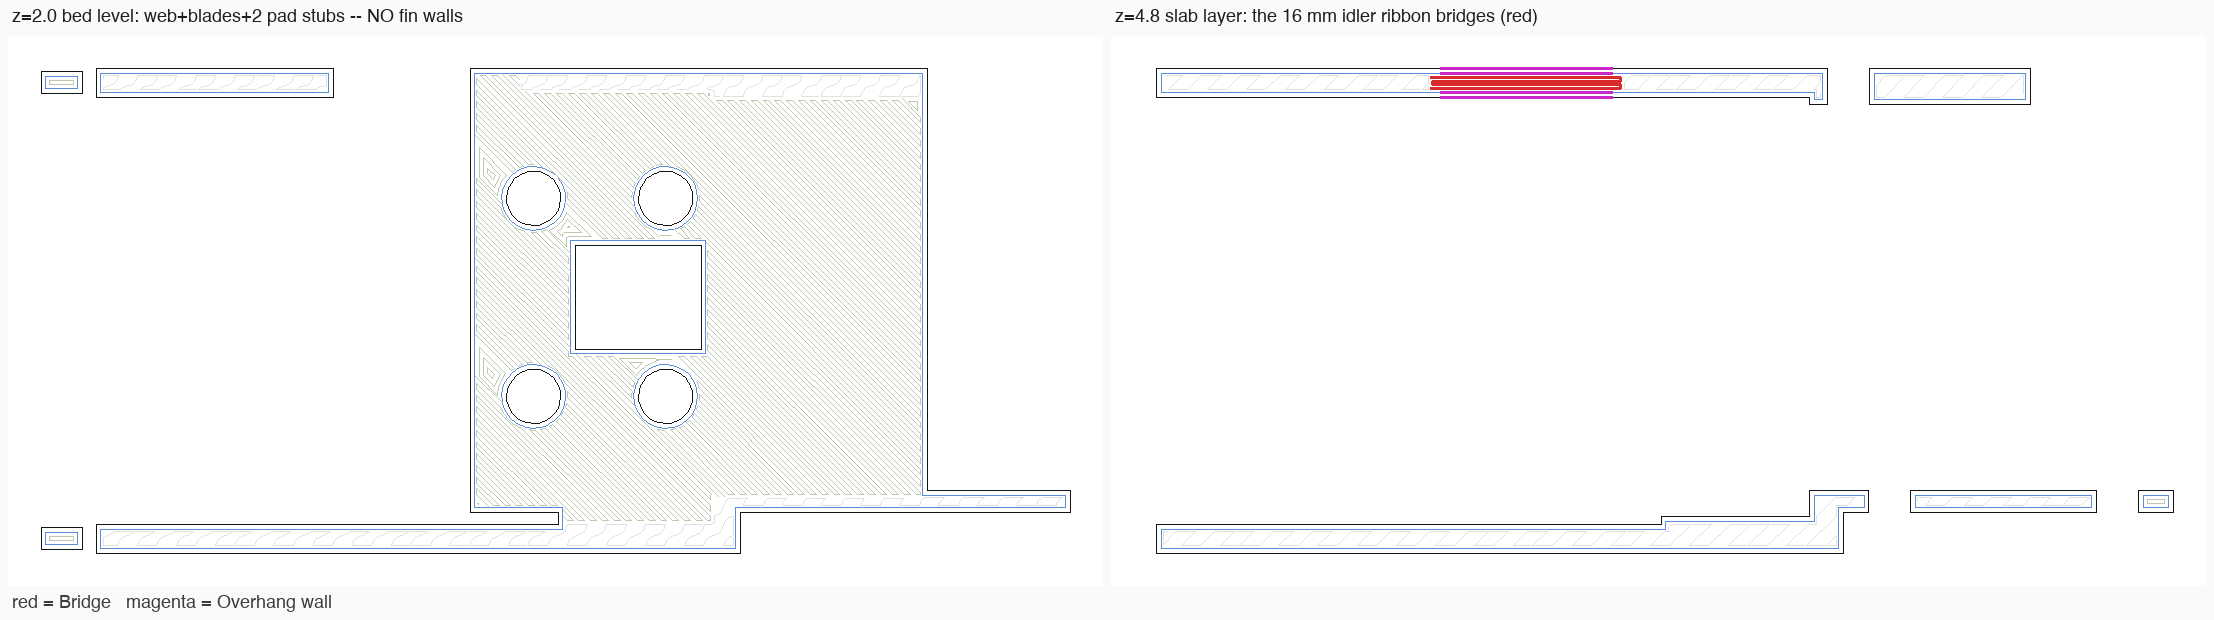
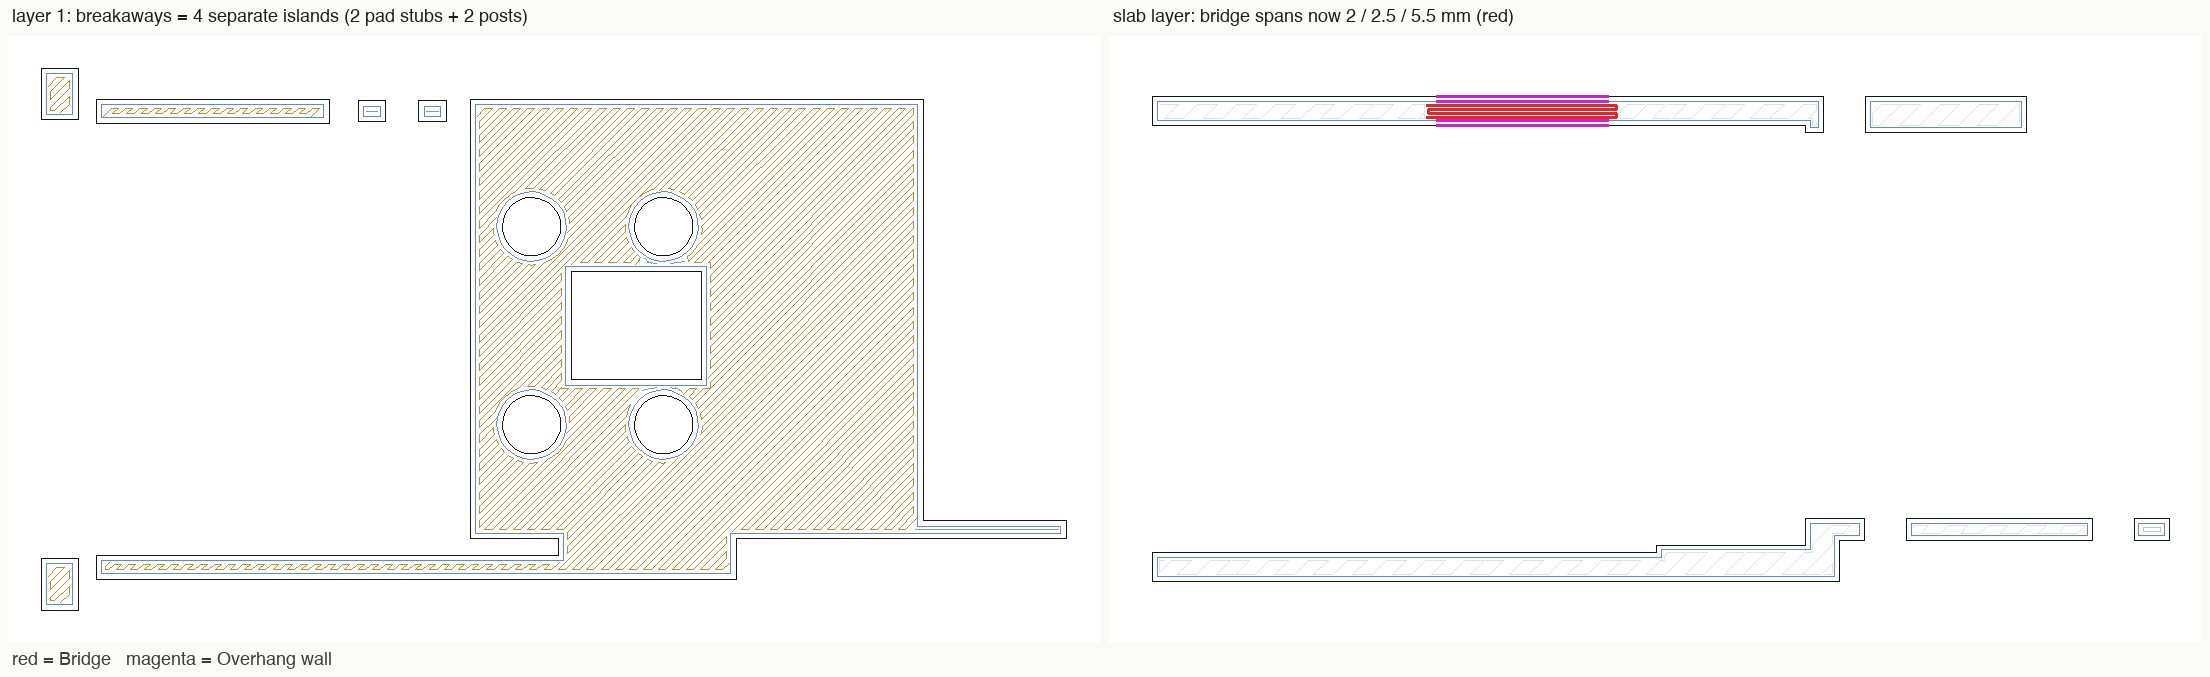
leg_link print: two island posts under the idler ribbon
The bare 16 mm ribbon bridge was rejected in print review. Two 2.4x3
posts (0.35 under the slab, >=1 mm clear of web and fills at the bed)
break it into 2 / 2.5 / 5.5 mm hops. Slice-verified: layer 1 has
exactly 4 breakaway islands (2 pad stubs + 2 posts), none connected
to the part or each other -- the island rule this review converged
on. leg_link.stl (sim/assembly geometry) unchanged.

diff --git a/cad/parts.py b/cad/parts.py
@@ -300,6 +300,15 @@ def leg_link(print_fins=False):
             stub += box(web_x0, web_x0 + 1.5, min(yc - 1.2, sgn * (abs(yc) + 4.3)),
                         max(yc + 1.2, sgn * (abs(yc) + 4.3)), -97.0, -92.8)
             p += stub
+        # island posts under the idler ribbon (print review 2026-07-16: the
+        # bare 16 mm bridge was rejected): two 2.4 x 3 columns, 0.35 under
+        # the slab, >=1 mm clear of the web (-58) and the solid fills (-70,
+        # -54) at bed level -- separate first-layer islands like the pad
+        # stubs, attached to nothing; the remaining bridge spans are
+        # 2 / 2.5 / 5.5 mm.
+        yc = iy0 + D.PLATE / 2
+        for z0, z1 in ((-68.0, -65.0), (-62.5, -59.5)):
+            p += box(web_x0, D.FORK_NARROW_X - 0.35, yc - 1.2, yc + 1.2, z0, z1)
     return p
 
 

diff --git a/cad/PRINT_LIST.md b/cad/PRINT_LIST.md
@@ -39,7 +39,7 @@ Two things to watch when you print PETG:
 | `pelvis` | 1 | PETG | 30–40 % | upside-down, deck top on bed | ✅ ready (bosses removed — see audit) — *secondary* hip-angle check |
 | `yoke_roll` | 2 | PETG | 30–40 % | flange face on bed, arms up | ✅ ready — *secondary* hip-angle check |
 | `yoke_pitch` | 2 | PETG | 30–40 % | flange face on bed, arms up | ♻ **revised for hip −110°** (idler arm → hub + riser; HOLD lifted) |
-| `leg_link` | 4 | PETG | 30–40 % | on its back, web face on bed — **slice `leg_link_print.stl`** | ♻ **revised v3** (2026-07-16 print review, two passes: 9×11 **cable window** through the web — before it every joint-crossing cable pierced the plastic — zip-tie holes at ±9 straddling it; idler boss OD tapered 51°; and the fork slabs are now **solid to the web face** wherever the foot sweep allows (mapped at ankle ±45°: horn side fully; idler side except the corner-sweep lobe at z −68.4…−55.6, whose 16 mm gap prints as a plain end-anchored ribbon bridge). **There are no fins at all** — the only break-away pieces are two 4 mm pad stubs standing in the open at the fork tips (finger-snap). Slice preview: `renders/leg_link_print_slice.png`. *The window is functional: reprint v1/v2 links when convenient* |
+| `leg_link` | 4 | PETG | 30–40 % | on its back, web face on bed — **slice `leg_link_print.stl`** | ♻ **revised v3** (2026-07-16 print review, two passes: 9×11 **cable window** through the web — before it every joint-crossing cable pierced the plastic — zip-tie holes at ±9 straddling it; idler boss OD tapered 51°; and the fork slabs are now **solid to the web face** wherever the foot sweep allows (mapped at ankle ±45°: horn side fully; idler side except the corner-sweep lobe at z −68.4…−55.6, whose 16 mm gap is broken up by **two island posts** into 2/2.5/5.5 mm bridge hops). **There are no fins at all** — the only break-away pieces are two 4 mm pad stubs at the fork tips plus those two posts, all verified as SEPARATE first-layer islands (≥1 mm clear, attached to nothing — they lift off with a fingernail). Slice preview: `renders/leg_link_print_slice.png`. *The window is functional: reprint v1/v2 links when convenient* |
 | `foot` | 2 | PETG | 30–40 % | sole down | ♻ **revised v3.1** (v3 heel bulkhead + sole enlarged 100 → 116 for the get-up corridor) |
 | `tower` | 1 | PETG | 30–40 % | upside-down, top plate on bed | ♻ **revised for print, support-free** (2026-07-16 slice reviews: feet-tab gussets and battery-rail stubs are now true ≥45° wedges — the old stepped boxes left flat 6 mm ceilings drooping over the interior; the **window sill was deleted** — it printed as a 70 mm member 41 mm up in mid-air, and the hook-loop belt is the real battery retention; two 45° corner detents park the pack instead. Feet screws now seat on the tabs through Ø6.6 wells — the only remaining bridges. ~5h19m PETG) |
 | `gopro_base` | 1 | PETG | — | base down, prongs up | ✅ printed in PETG |

diff --git a/DESIGN.md b/DESIGN.md
@@ -1186,12 +1186,16 @@ Second slice/print review of the leg_link raised three things; all landed:
    slabs are **solid to the web face** everywhere else — "make it solid",
    the feedback's own words: the horn slab is a full-depth blade
    (z −92…−50) and the idler side fills both sides of the lobe. The 16 mm
-   idler stretch left over is anchored on solid at BOTH ends and prints as
-   a plain 3 mm-wide ribbon bridge — no support (chamfers to shrink it land
-   inside the swept lobe, verified; `check_printability` gained a BEAM
-   class for end-anchored ribbons ≤4 mm wide, allowed to 20 mm). The only
-   break-away pieces left are two 4 mm pad stubs under the pad tangents,
-   standing in the open at the fork tips. The boss fin's job is likewise
+   idler stretch left over is anchored on solid at BOTH ends; a bare ribbon
+   bridge was rejected in review, so two **island posts** (2.4 × 3, 0.35
+   under the slab) break it into 2/2.5/5.5 mm hops. Every break-away piece
+   — the two posts plus two 4 mm pad stubs under the pad tangents — is a
+   verified SEPARATE first-layer island (≥1 mm clear at the bed, no brim):
+   attached to nothing, they lift off with a fingernail. That island rule
+   is the design principle this whole review converged on: a breakaway
+   sharing first-layer plastic with the part has no break line, no matter
+   what happens above the bed. (`check_printability` keeps the BEAM class
+   for end-anchored ribbons ≤4 mm wide, allowed to 20 mm.) The boss fin's job is likewise
    geometry now: the boss OD is a ~51° cone (Ø19 → Ø16 tip),
    self-supporting — it's a loose locator (~3 mm radial slack), so the
    taper costs nothing. +0.9 g/link; the solid blades stiffen the fork.
